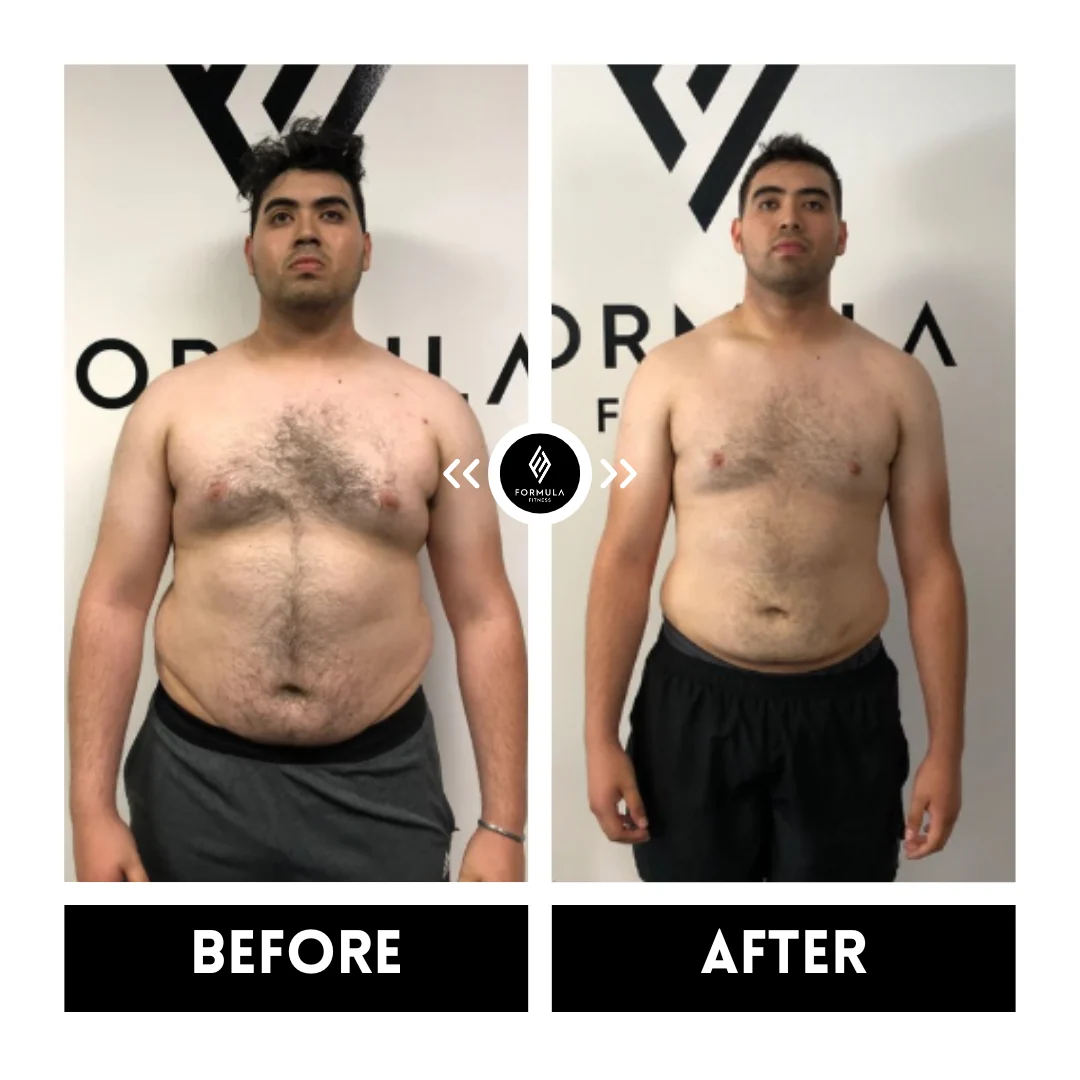
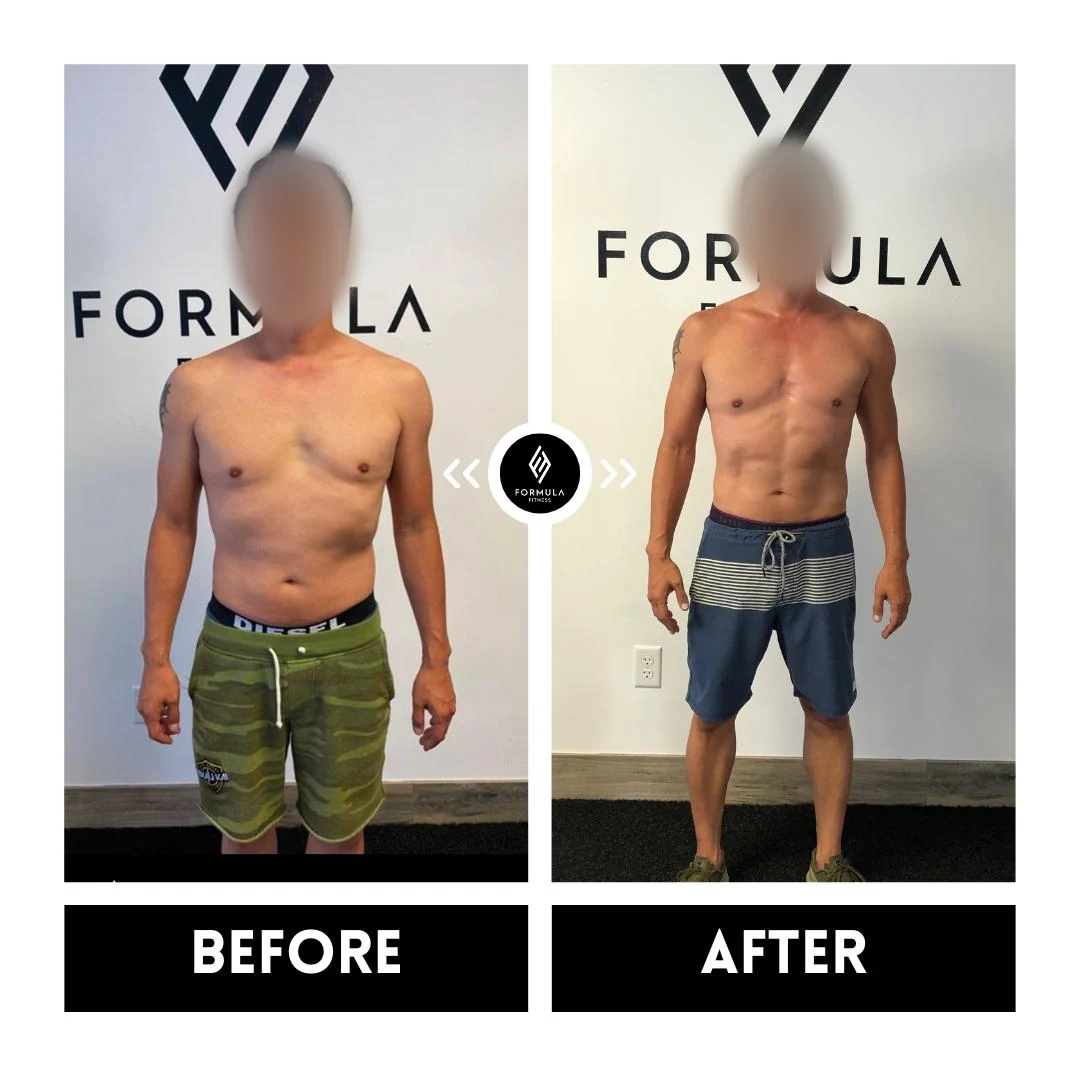
Add files via upload

diff --git a/public/index.html b/public/index.html
@@ -11,7 +11,7 @@ j=d.createElement(s),dl=l!='dataLayer'?'&l='+l:'';j.async=true;j.src=
 <!-- End Google Tag Manager -->
 <meta name="viewport" content="width=device-width, initial-scale=1">
 <title>Semi-Private Personal Training in Los Alamitos | Formula Fitness</title>
-<meta name="description" content="Build strength with semi-private personal training in Los Alamitos. Your own program, coach guidance and small-group support. Book a consultation.">
+<meta name="description" content="Build strength with semi-private personal training in Los Alamitos. Your own program, coach guidance and small-group support. Enter your info to get prices.">
 <!-- PREVIEW ONLY: remove this tag at launch. -->
 <meta name="robots" content="noindex, nofollow">
 <!-- No canonical tag yet. Add <link rel="canonical" href="FINAL URL"> once the final address is chosen. -->
@@ -68,7 +68,7 @@ height="0" width="0" style="display:none;visibility:hidden"></iframe></noscript>
    </ul>
   </nav>
   <div class="bar-end">
-   <a class="btn btn-sm" href="https://api.formulafitness.co/widget/form/cCHvBgZHH4fkFVQY6907" data-open-form aria-haspopup="dialog" target="_blank" rel="noopener">Book a Consultation</a>
+   <a class="btn btn-sm" href="https://api.formulafitness.co/widget/form/cCHvBgZHH4fkFVQY6907" data-open-form aria-haspopup="dialog" target="_blank" rel="noopener">Enter Info to Get Prices</a>
    <button class="menu-btn" type="button" aria-expanded="false" aria-controls="site-nav">Menu</button>
   </div>
  </div>
@@ -79,14 +79,14 @@ height="0" width="0" style="display:none;visibility:hidden"></iframe></noscript>
 <!-- HERO: dark photographic hero, text beside the coaching photo. Existing headline, sentence, button and microcopy. -->
 <section class="hero" id="top">
  <div class="hero-main">
- <img class="hero-photo" src="images/semi-group-slam-ball-sq-1200.webp" srcset="images/semi-group-slam-ball-sq-480.webp 480w, images/semi-group-slam-ball-sq-720.webp 720w, images/semi-group-slam-ball-sq-960.webp 960w, images/semi-group-slam-ball-sq-1200.webp 1200w" sizes="(max-width: 899px) 100vw, 62vw" width="1200" height="1200" alt="A Formula Fitness coach leading three clients in a small group as each lowers a slam ball in a squat position" fetchpriority="high">
+ <picture><source media="(max-width: 699px)" srcset="images/semi-hero-portrait-480.webp 480w, images/semi-hero-portrait-720.webp 720w, images/semi-hero-portrait-960.webp 960w, images/semi-hero-portrait-1024.webp 1024w" sizes="calc(100vw - 2.5rem)" width="1024" height="1536"><img class="hero-photo" src="images/semi-hero-landscape-1280.webp" srcset="images/semi-hero-landscape-640.webp 640w, images/semi-hero-landscape-960.webp 960w, images/semi-hero-landscape-1280.webp 1280w, images/semi-hero-landscape-1672.webp 1672w" sizes="(max-width: 899px) calc(100vw - 2.5rem), 80vw" width="1672" height="941" alt="Illustrative AI-generated image of adults training together in a dark gym: a woman holds a kettlebell in a squat while others lift dumbbells nearby" fetchpriority="high"></picture>
  <div class="wrap hero-in">
   <div class="hero-copy">
    <p class="eyebrow">Semi-Private Coaching <span aria-hidden="true">&bull;</span> Los Alamitos, CA</p>
    <h1><span>Your Plan.</span> <span class="hl">Stronger Together.</span></h1>
    <p class="hero-sub">Semi-private personal training in Los Alamitos. Build strength with your own training plan, coach guidance and small-group support.</p>
-   <a class="btn btn-lg" href="https://api.formulafitness.co/widget/form/cCHvBgZHH4fkFVQY6907" data-open-form aria-haspopup="dialog" target="_blank" rel="noopener">Book a Consultation</a>
-   <p class="hero-note">We’ll contact you to arrange your consultation.</p>
+   <a class="btn btn-lg" href="https://api.formulafitness.co/widget/form/cCHvBgZHH4fkFVQY6907" data-open-form aria-haspopup="dialog" target="_blank" rel="noopener">Enter Info to Get Prices</a>
+   <p class="hero-note">We’ll contact you to discuss pricing and your next steps.</p>
   </div>
  </div>
  </div>
@@ -118,11 +118,11 @@ height="0" width="0" style="display:none;visibility:hidden"></iframe></noscript>
   <p class="res-sub">Progress looks different for everyone. Explore individual journeys from the Formula Fitness community.</p>
   <div class="rgrid">
    <figure class="rcard"><img src="images/client-result-04.webp" width="1080" height="1080" loading="lazy" decoding="async" alt="Side-by-side comparison of one Formula Fitness community member, front view, labeled BEFORE on the left and AFTER on the right."></figure>
-   <figure class="rcard"><img src="images/client-result-05.webp" width="1080" height="1080" loading="lazy" decoding="async" alt="Side-by-side comparison of a second Formula Fitness community member, side view, labeled BEFORE on the left and AFTER on the right."></figure>
-   <figure class="rcard"><img src="images/client-result-06.webp" width="1080" height="1080" loading="lazy" decoding="async" alt="Side-by-side comparison of a third Formula Fitness community member, side view, labeled BEFORE on the left and AFTER on the right."></figure>
+   <figure class="rcard"><img src="images/client-result-05.webp" width="1080" height="1080" loading="lazy" decoding="async" alt="Side-by-side comparison of a second Formula Fitness community member, front view, labeled BEFORE on the left and AFTER on the right."></figure>
+   <figure class="rcard"><img src="images/client-result-06.webp" width="1080" height="1080" loading="lazy" decoding="async" alt="Side-by-side comparison of a third Formula Fitness community member, front view, labeled BEFORE on the left and AFTER on the right."></figure>
   </div>
   <p class="res-note">Individual results vary. Training history, consistency and other factors influence outcomes.</p>
-  <p class="res-cta"><a class="btn" href="https://api.formulafitness.co/widget/form/cCHvBgZHH4fkFVQY6907" data-open-form aria-haspopup="dialog" target="_blank" rel="noopener">Book a Consultation</a></p>
+  <p class="res-cta"><a class="btn" href="https://api.formulafitness.co/widget/form/cCHvBgZHH4fkFVQY6907" data-open-form aria-haspopup="dialog" target="_blank" rel="noopener">Enter Info to Get Prices</a></p>
  </div>
 </section>
 
@@ -139,13 +139,13 @@ height="0" width="0" style="display:none;visibility:hidden"></iframe></noscript>
      <li><svg class="ic" aria-hidden="true"><use href="#i-check"/></svg><div><h3>Your Starting Point</h3><p>Work on exercises suited to your current ability and experience.</p></div></li>
      <li><svg class="ic" aria-hidden="true"><use href="#i-check"/></svg><div><h3>Your Coach’s Guidance</h3><p>Get demonstrations and feedback while training alongside others.</p></div></li>
     </ul>
-    <a class="btn" href="https://api.formulafitness.co/widget/form/cCHvBgZHH4fkFVQY6907" data-open-form aria-haspopup="dialog" target="_blank" rel="noopener">Book a Consultation</a>
+    <a class="btn" href="https://api.formulafitness.co/widget/form/cCHvBgZHH4fkFVQY6907" data-open-form aria-haspopup="dialog" target="_blank" rel="noopener">Enter Info to Get Prices</a>
    </div>
   </div>
  </div>
  <div class="feat-row tint" id="progress">
   <div class="wrap feat rev">
-   <figure class="fimg"><img class="crop-b" src="images/semi-group-kettlebell-swing-sq-960.webp" srcset="images/semi-group-kettlebell-swing-sq-480.webp 480w, images/semi-group-kettlebell-swing-sq-720.webp 720w, images/semi-group-kettlebell-swing-sq-960.webp 960w, images/semi-group-kettlebell-swing-sq-1200.webp 1200w" sizes="(min-width:900px) 46vw, 92vw" width="1200" height="1200" alt="A Formula Fitness coach guiding a small group through a two-handed kettlebell swing" loading="lazy"><figcaption class="badge glass">COACHING &amp; SUPPORT</figcaption></figure>
+   <figure class="fimg"><img class="crop-b" src="images/semi-build-strength-960.webp" srcset="images/semi-build-strength-480.webp 480w, images/semi-build-strength-720.webp 720w, images/semi-build-strength-960.webp 960w, images/semi-build-strength-1200.webp 1200w" sizes="(min-width:900px) 46vw, 92vw" width="1200" height="1200" alt="A Formula Fitness coach guiding a small group through a two-handed kettlebell swing" loading="lazy"><figcaption class="badge glass">COACHING &amp; SUPPORT</figcaption></figure>
    <div class="ftxt">
     <h2 class="two-line">Build Strength. <span class="hl">Keep Showing Up.</span></h2>
     <p>Develop a routine with guidance from your coach and encouragement from the group. Review your progress and adapt your training as your strength and confidence grow.</p>
@@ -155,7 +155,7 @@ height="0" width="0" style="display:none;visibility:hidden"></iframe></noscript>
      <li><svg class="ic" aria-hidden="true"><use href="#i-check"/></svg><div><h3>Appropriate Adjustments</h3><p>Adapt exercises and training demands to your developing ability.</p></div></li>
      <li><svg class="ic" aria-hidden="true"><use href="#i-check"/></svg><div><h3>Shared Accountability</h3><p>Bring structure to your routine with coaching and group support.</p></div></li>
     </ul>
-    <a class="btn" href="https://api.formulafitness.co/widget/form/cCHvBgZHH4fkFVQY6907" data-open-form aria-haspopup="dialog" target="_blank" rel="noopener">Book a Consultation</a>
+    <a class="btn" href="https://api.formulafitness.co/widget/form/cCHvBgZHH4fkFVQY6907" data-open-form aria-haspopup="dialog" target="_blank" rel="noopener">Enter Info to Get Prices</a>
    </div>
   </div>
  </div>
@@ -166,7 +166,7 @@ height="0" width="0" style="display:none;visibility:hidden"></iframe></noscript>
  <div class="wrap">
   <h2 class="center up" id="fv-t">YOUR NEXT STEP <span class="hl">STARTS HERE</span></h2>
   <ol class="steps">
-   <li><b aria-hidden="true">01</b><div><h3>Send Your Enquiry</h3><p>Tell us about your goals. Our team will contact you to arrange a consultation.</p></div></li>
+   <li><b aria-hidden="true">01</b><div><h3>Send Your Enquiry</h3><p>Tell us about your goals. Our team will contact you to discuss pricing and your next steps.</p></div></li>
    <li><b aria-hidden="true">02</b><div><h3>Explore the Format</h3><p>Discuss your experience and learn how individual programming works within a small-group session.</p></div></li>
    <li><b aria-hidden="true">03</b><div><h3>Discuss Training Options</h3><p>Ask about suitable sessions, current availability and the next steps to get started.</p></div></li>
   </ol>
@@ -181,9 +181,7 @@ height="0" width="0" style="display:none;visibility:hidden"></iframe></noscript>
    <div class="ctrl"><button class="cbtn" type="button" data-dir="-1" aria-label="Previous coaches"><svg class="ic"><use href="#i-l"/></svg></button><button class="cbtn next" type="button" data-dir="1" aria-label="Next coaches"><svg class="ic"><use href="#i-r"/></svg></button></div></div>
   <div class="track team" tabindex="0" role="group" aria-roledescription="carousel" aria-label="Coaching team">
    <article class="tcard"><img src="images/trainer-tony.webp" width="800" height="1000" alt="Tony, Founding Partner and Director of Experience" loading="lazy"><h3>Tony</h3><p>Founding Partner and Director of Experience</p></article>
-   <article class="tcard"><img src="images/trainer-amber.webp" width="800" height="1000" alt="Amber, Founding Partner and Director of Experience" loading="lazy"><h3>Amber</h3><p>Founding Partner and Director of Experience</p></article>
    <article class="tcard"><img src="images/trainer-jason.webp" width="800" height="1000" alt="Jason, Lead Director of Performance and Recovery Specialist" loading="lazy"><h3>Jason</h3><p>Lead Director of Performance and Recovery Specialist</p></article>
-   <article class="tcard"><img src="images/trainer-cj.webp" width="800" height="1000" alt="CJ, Director of Client Acquisitions" loading="lazy"><h3>CJ</h3><p>Director of Client Acquisitions</p></article>
    <article class="tcard"><img src="images/trainer-chris.webp" width="800" height="1000" alt="Chris, Lead Nutritionist and Performance Specialist" loading="lazy"><h3>Chris</h3><p>Lead Nutritionist and Performance Specialist</p></article>
    <article class="tcard"><img src="images/trainer-christy.webp" width="800" height="1000" alt="Christy, Lead Strength and Conditioning Specialist" loading="lazy"><h3>Christy</h3><p>Lead Strength and Conditioning Specialist</p></article>
    <article class="tcard"><img src="images/trainer-michael.webp" width="800" height="1000" alt="Michael, Lead Human Performance Specialist" loading="lazy"><h3>Michael</h3><p>Lead Human Performance Specialist</p></article>
@@ -202,7 +200,7 @@ height="0" width="0" style="display:none;visibility:hidden"></iframe></noscript>
    <details><summary>Is semi-private training the same as a fitness class?</summary><p>Semi-private training combines individual programming with coaching in a small group. You follow a plan shaped around your goals rather than everyone completing the same workout.</p></details>
    <details><summary>Can I enquire if I’m a beginner or returning after a break?</summary><p>Yes. Tell us about your experience and current routine so we can discuss whether semi-private training is a suitable option.</p></details>
    <details><summary>How many people train together, and when are sessions?</summary><p>Contact us for current group capacity, session times and availability. We’ll help you explore options that fit your routine.</p></details>
-   <details><summary>What happens after I submit the form?</summary><p>Your form sends a consultation enquiry. The Formula Fitness team will contact you to arrange the next step and discuss training options and pricing. Submitting does not confirm an appointment.</p></details>
+   <details><summary>What happens after I submit the form?</summary><p>Your form sends an enquiry. The Formula Fitness team will contact you to arrange the next step and discuss training options and pricing. Submitting does not confirm an appointment.</p></details>
    <details><summary>Where is Formula Fitness?</summary><p><a href="https://www.google.com/maps/place/Formula+Fitness/@33.8179361,-118.0661915,17z" target="_blank" rel="noopener">3971 Ball Rd, Los Alamitos, CA 90720.</a></p></details>
   </div>
  </div>
@@ -218,9 +216,9 @@ height="0" width="0" style="display:none;visibility:hidden"></iframe></noscript>
    <p class="cta-addr"><svg class="ic" aria-hidden="true"><use href="#i-pin"/></svg>3971 Ball Rd, Los Alamitos, CA 90720</p>
   </div>
   <div class="cta-card">
-   <h3>Book a Consultation</h3>
-   <p>We’ll contact you to arrange your consultation. Submitting the form does not confirm an appointment.</p>
-   <a class="btn btn-lg" href="https://api.formulafitness.co/widget/form/cCHvBgZHH4fkFVQY6907" data-open-form aria-haspopup="dialog" target="_blank" rel="noopener">Book a Consultation</a>
+   <h3>Enter Info to Get Prices</h3>
+   <p>We’ll contact you to discuss pricing and your next steps. Submitting the form does not confirm an appointment.</p>
+   <a class="btn btn-lg" href="https://api.formulafitness.co/widget/form/cCHvBgZHH4fkFVQY6907" data-open-form aria-haspopup="dialog" target="_blank" rel="noopener">Enter Info to Get Prices</a>
   </div>
  </div>
 </section>
@@ -228,7 +226,7 @@ height="0" width="0" style="display:none;visibility:hidden"></iframe></noscript>
 </main>
 
 <!-- STICKY MOBILE CTA: same shared modal as every other enquiry button; hidden on desktop and while the modal is open (body.lock). -->
-<div class="sticky-cta"><a class="btn btn-lg" href="https://api.formulafitness.co/widget/form/cCHvBgZHH4fkFVQY6907" data-open-form aria-haspopup="dialog" target="_blank" rel="noopener">Book a Consultation</a></div>
+<div class="sticky-cta"><a class="btn btn-lg" href="https://api.formulafitness.co/widget/form/cCHvBgZHH4fkFVQY6907" data-open-form aria-haspopup="dialog" target="_blank" rel="noopener">Enter Info to Get Prices</a></div>
 
 <footer class="foot">
  <div class="wrap fgrid">
@@ -243,7 +241,7 @@ height="0" width="0" style="display:none;visibility:hidden"></iframe></noscript>
    </p>
   </div>
   <div><h3>SEMI-PRIVATE TRAINING</h3><ul>
-   <li><a href="#program">Your Training</a></li><li><a href="#features">Your Individual Program</a></li><li><a href="#first-visit">Your First Visit</a></li><li><a href="#trainers">Your Coaches</a></li><li><a href="#progress">Your Progress</a></li><li><a href="https://api.formulafitness.co/widget/form/cCHvBgZHH4fkFVQY6907" data-open-form aria-haspopup="dialog" target="_blank" rel="noopener">Book a Consultation</a></li></ul></div>
+   <li><a href="#program">Your Training</a></li><li><a href="#features">Your Individual Program</a></li><li><a href="#first-visit">Your First Visit</a></li><li><a href="#trainers">Your Coaches</a></li><li><a href="#progress">Your Progress</a></li><li><a href="https://api.formulafitness.co/widget/form/cCHvBgZHH4fkFVQY6907" data-open-form aria-haspopup="dialog" target="_blank" rel="noopener">Enter Info to Get Prices</a></li></ul></div>
   <div><h3>CONTACT</h3><ul>
    <li><a href="tel:+15626694030">(562) 669-4030</a></li>
    <li><a href="mailto:info@formulafitness.co">info@formulafitness.co</a></li>
@@ -259,15 +257,15 @@ height="0" width="0" style="display:none;visibility:hidden"></iframe></noscript>
      The iframe has no src in the markup on purpose: script.js sets it ONCE, from data-src, the first time the modal opens
      (visible, real width, no loading="lazy"). Closing the modal only hides it, so entered data is kept. -->
 <dialog id="form-modal" aria-labelledby="modal-t">
- <div class="modal-head"><h2 id="modal-t">Book a Consultation</h2>
-  <button class="modal-close" type="button" aria-label="Close consultation form"><svg class="ic"><use href="#i-x"/></svg></button></div>
+ <div class="modal-head"><h2 id="modal-t">Enter Info to Get Prices</h2>
+  <button class="modal-close" type="button" aria-label="Close form"><svg class="ic"><use href="#i-x"/></svg></button></div>
  <div class="modal-body">
   <div class="form-status" id="form-status" role="status" aria-live="polite" hidden>
    <span class="spin" aria-hidden="true"></span>
    <p id="form-status-text">Loading the form&hellip;</p>
    <button class="form-retry" id="form-retry" type="button" hidden>Try loading again</button>
   </div>
-  <iframe data-src="https://api.formulafitness.co/widget/form/cCHvBgZHH4fkFVQY6907" id="inline-cCHvBgZHH4fkFVQY6907" title="Book a Consultation form" data-layout="{'id':'INLINE'}" data-trigger-type="alwaysShow" data-trigger-value="" data-activation-type="alwaysActivated" data-activation-value="" data-deactivation-type="neverDeactivate" data-deactivation-value="" data-layout-iframe-id="inline-cCHvBgZHH4fkFVQY6907" data-form-id="cCHvBgZHH4fkFVQY6907"></iframe>
+  <iframe data-src="https://api.formulafitness.co/widget/form/cCHvBgZHH4fkFVQY6907" id="inline-cCHvBgZHH4fkFVQY6907" title="Enter Info to Get Prices form" data-layout="{'id':'INLINE'}" data-trigger-type="alwaysShow" data-trigger-value="" data-activation-type="alwaysActivated" data-activation-value="" data-deactivation-type="neverDeactivate" data-deactivation-value="" data-layout-iframe-id="inline-cCHvBgZHH4fkFVQY6907" data-form-id="cCHvBgZHH4fkFVQY6907"></iframe>
  </div>
  <p class="modal-foot">Form not showing? <a href="https://api.formulafitness.co/widget/form/cCHvBgZHH4fkFVQY6907" target="_blank" rel="noopener">Open it in a new tab</a>.</p>
 </dialog>

diff --git a/public/style.css b/public/style.css
@@ -278,3 +278,15 @@ h2{text-wrap:balance}
 }
 @media(max-width:699px){.cta-photo{object-position:50% 6%}}
 @media(min-width:700px) and (max-width:899px){.cta-photo{aspect-ratio:16/9;object-position:50% 6%}}
+
+/* Hero: supplied AI images. Portrait on phones, landscape from 700 px; dark negative space on the left carries the text from 1280 px. */
+.hero-main>picture{display:contents}
+.hero-photo{aspect-ratio:4/5;object-position:50% 90%}
+@media(min-width:700px){.hero-photo{aspect-ratio:16/9;object-position:50% 50%}}
+@media(min-width:1280px){
+ .hero-main::before{background:linear-gradient(90deg,#000 0,rgba(0,0,0,.85) 18%,rgba(0,0,0,.35) 38%,rgba(0,0,0,0) 54%)}
+ .hero-photo{position:absolute;right:0;top:0;height:100%;width:auto;max-width:100%;aspect-ratio:1672/941;margin:0;border-radius:0;object-position:100% 50%;-webkit-mask-image:linear-gradient(90deg,transparent 0,#000 14%);mask-image:linear-gradient(90deg,transparent 0,#000 14%)}
+}
+
+/* Longer CTA label ("Enter Info to Get Prices"): keep the header button on one line on small phones */
+@media(max-width:420px){.hdr .btn-sm{padding:.55rem .85rem;font-size:.8rem;white-space:nowrap}.bar-end{gap:.4rem}.menu-btn{padding-inline:.8rem}}
